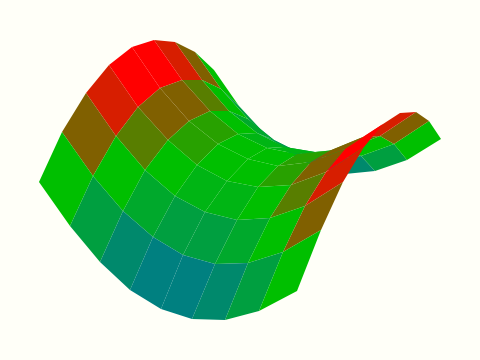
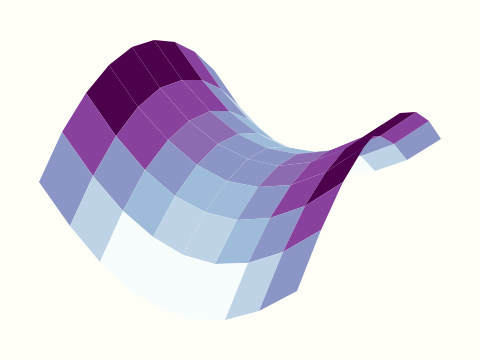
surface.png 파일 교체

diff --git a/_posts/jlang/plot/2017-03-16-types.html b/_posts/jlang/plot/2017-03-16-types.html
@@ -301,13 +301,13 @@ dat =: (; (; -&*:/~)) X
 
 pd 'reset'
 
-pd 'new 30 200 480 900'
+pd 'new 30 200 480 900' NB. bottom x, bottom y, top x, top y
 pd 'type surface'
 pd 'color MYCOLORS'
 pd 'backcolor BC'
 pd 'noaxes'
 pd dat
-pd 'new 510 200 960 900'
+pd 'new 510 200 960 900' NB. bottom x, bottom y, top x, top y
 pd 'type density'
 pd 'color MYCOLORS'
 pd 'backcolor BC'
@@ -326,11 +326,22 @@ pd 'show'
 	
 	
 	<pre class="code">
+MYCOLORS_z_ =: ".;._2 (0 : 0)
+247 252 253
+224 236 244
+191 211 230
+158 188 218
+140 150 198
+140 107 177
+136 65 157
+129 15 124
+77 0 75
+)
 require 'plot numeric'
 X =: Y =: steps _4 4 8
 Z =: X -&*:/ Y
 BC_z_ =: 255 255 248 NB. plot 배경색, 꼭 locale을 _z_로 지정하세요.
-'type surface; boxed 0; mesh 0; backcolor BC' plot X ; Y ; Z
+'type surface; boxed 0; mesh 0; backcolor BC; color MYCOLORS' plot X ; Y ; Z
 	</pre>
 </section>
 
